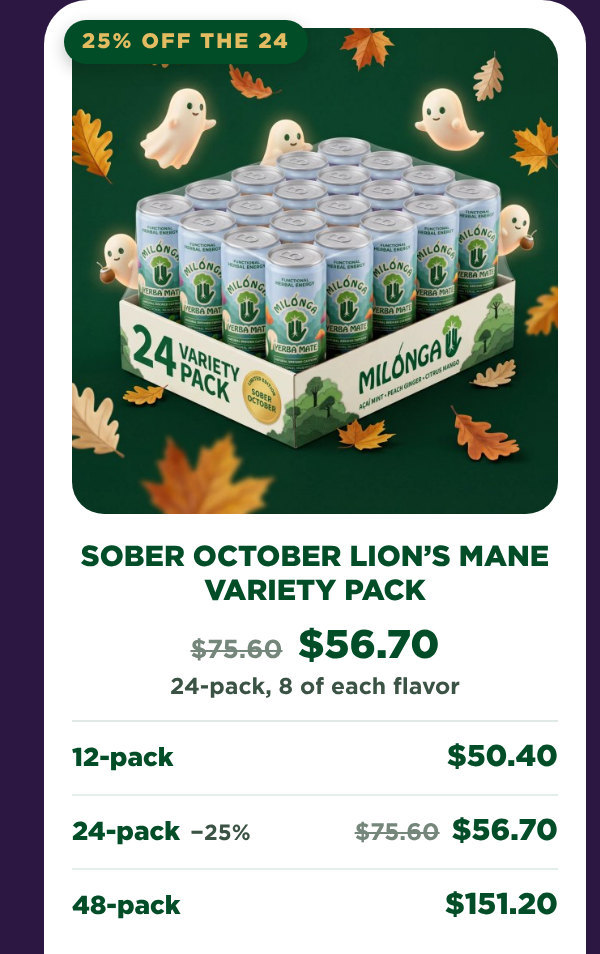
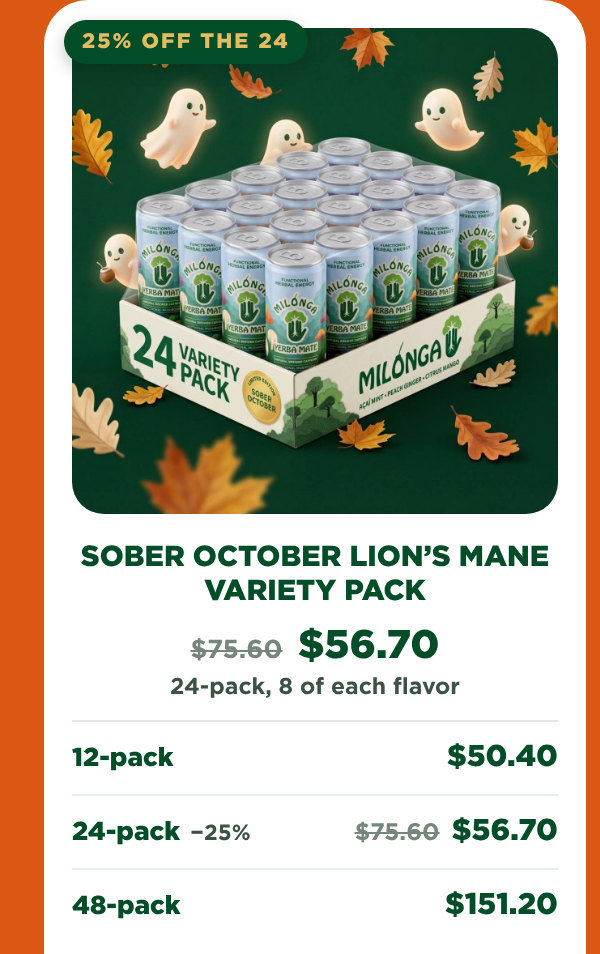
Halloween weekend: the variety-pack section on the peach-ginger orange
Claude-Session: https://claude.ai/code/session_01NhEtXPnfeCJfN73SqBkUZ5

Changed region(s): [[0.0, 0.0, 0.12, 1.0], [0.93, 0.0, 1.0, 1.0]]

diff --git a/email-ds/exports/klaviyo/halloween-weekend/halloween-weekend.html b/email-ds/exports/klaviyo/halloween-weekend/halloween-weekend.html
@@ -15,7 +15,7 @@
 <table role="presentation" class="wrap" width="600" cellpadding="0" cellspacing="0" border="0" style="width:600px;max-width:600px;">
 
 <!-- ── 1 · IT'S HALLOWEEN WEEKEND ──────────────────────────────── -->
-<tr><td style="padding:0;font-size:0;line-height:0;"><a href="https://milonga.life" target="_blank" style="text-decoration:none;"><img src="https://cdn.klaviyomail.com/company/TwvSnK/images/a97c4094-ab0c-4f8c-83b7-e7961fc0356a.jpeg" width="600" alt="Milonga. It’s Halloween weekend. Party Pack up to 30% off, ends Monday. The whole Milonga lineup on a purple Halloween night with a full moon, witches on broomsticks, friendly ghosts, autumn leaves and jack-o’-lanterns: Lion’s Mane and Social Mate cans around a pouch of Mate Latte." style="display:block;width:100%;max-width:600px;height:auto;border:0;outline:none;text-decoration:none;"></a></td></tr>
+<tr><td style="padding:0;font-size:0;line-height:0;"><a href="https://milonga.life" target="_blank" style="text-decoration:none;"><img src="https://raw.githubusercontent.com/bernatent11-pixel/Github/claude/email-design-system-a0nlwv/email-ds/exports/klaviyo/halloween-weekend/img/s1-hero.jpg" width="600" alt="Milonga. It’s Halloween weekend. Party Pack up to 30% off, ends Monday. The whole Milonga lineup on a purple Halloween night with a full moon, witches on broomsticks, friendly ghosts, autumn leaves and jack-o’-lanterns: Lion’s Mane and Social Mate cans around a pouch of Mate Latte." style="display:block;width:100%;max-width:600px;height:auto;border:0;outline:none;text-decoration:none;"></a></td></tr>
 <tr><td align="center" bgcolor="#3A1F55" style="background:#3A1F55;padding:0 20px 24px;"><table role="presentation" cellpadding="0" cellspacing="0" border="0" align="center" style="margin:0 auto;"><tr><td align="center" bgcolor="#E3BC62" style="border-radius:999px;background:#E3BC62;"><a href="https://milonga.life" target="_blank" style="display:inline-block;padding:17px 36px;white-space:nowrap;font-family:'Montserrat', 'Helvetica Neue', Arial, sans-serif;font-size:16px;font-weight:800;letter-spacing:2px;text-transform:uppercase;color:#004D27;text-decoration:none;border-radius:999px;mso-padding-alt:0;">Shop the Halloween sale</a></td></tr></table></td></tr>
 
 <!-- ── LIVE TIMER ──────────────────────────────────────────────────
@@ -28,19 +28,19 @@
 <div style="display:inline-block;background:#2C1743;border:1.5px solid #E3BC62;border-radius:16px;padding:14px 22px;font-family:'Montserrat', 'Helvetica Neue', Arial, sans-serif;font-size:18px;font-weight:900;color:#FFFFFF;letter-spacing:1px;">Ends Monday, November 2 at 11:59 PM ET</div></td></tr>
 
 <!-- ── 2 · THE HALLOWEEN PARTY PACK ────────────────────────────── -->
-<tr><td style="padding:0;font-size:0;line-height:0;"><a href="https://milonga.life/products/halloween-party-pack-bundle" target="_blank" style="text-decoration:none;"><img src="https://cdn.klaviyomail.com/company/TwvSnK/images/574f2e1c-b15b-49cf-b08f-ee76411eeebe.jpeg" width="600" alt="Limited edition, last weekend. The Halloween Party Pack. Costumes by day, the party by night. Our two mates in one box, plus the Milonga bucket hat, up to 30% off until Monday. The Party Pack box of Lion’s Mane and Social Mate cans with a Milonga bucket hat, jack-o’-lanterns, ghosts and witches under a full moon." style="display:block;width:100%;max-width:600px;height:auto;border:0;outline:none;text-decoration:none;"></a></td></tr>
-<tr><td style="padding:0;font-size:0;line-height:0;"><a href="https://milonga.life/products/halloween-party-pack-bundle" target="_blank" style="text-decoration:none;"><img src="https://cdn.klaviyomail.com/company/TwvSnK/images/49b190ef-bae3-4f45-9404-f4e5b8d2cbfe.jpeg" width="600" alt="By day, Lion’s Mane Mate: 100mg natural caffeine, 1,000mg Lion’s Mane, 220mg L-Theanine. By night, Social Mate: 10mg THC, 10mg CBD, 110mg natural caffeine, 220mg L-Theanine. Party Pack, 24-pack: $103.80, was $138.40, save 25%: 12 cans of Lion’s Mane, 12 cans of Social Mate, 1 Milonga bucket hat. Party Pack XL, 48-pack: $167.72, was $239.60, save 30%: 24 cans of Lion’s Mane, 24 cans of Social Mate, 2 Milonga bucket hats." style="display:block;width:100%;max-width:600px;height:auto;border:0;outline:none;text-decoration:none;"></a></td></tr>
+<tr><td style="padding:0;font-size:0;line-height:0;"><a href="https://milonga.life/products/halloween-party-pack-bundle" target="_blank" style="text-decoration:none;"><img src="https://raw.githubusercontent.com/bernatent11-pixel/Github/claude/email-design-system-a0nlwv/email-ds/exports/klaviyo/halloween-weekend/img/s2-head.jpg" width="600" alt="Limited edition, last weekend. The Halloween Party Pack. Costumes by day, the party by night. Our two mates in one box, plus the Milonga bucket hat, up to 30% off until Monday. The Party Pack box of Lion’s Mane and Social Mate cans with a Milonga bucket hat, jack-o’-lanterns, ghosts and witches under a full moon." style="display:block;width:100%;max-width:600px;height:auto;border:0;outline:none;text-decoration:none;"></a></td></tr>
+<tr><td style="padding:0;font-size:0;line-height:0;"><a href="https://milonga.life/products/halloween-party-pack-bundle" target="_blank" style="text-decoration:none;"><img src="https://raw.githubusercontent.com/bernatent11-pixel/Github/claude/email-design-system-a0nlwv/email-ds/exports/klaviyo/halloween-weekend/img/s2-body.jpg" width="600" alt="By day, Lion’s Mane Mate: 100mg natural caffeine, 1,000mg Lion’s Mane, 220mg L-Theanine. By night, Social Mate: 10mg THC, 10mg CBD, 110mg natural caffeine, 220mg L-Theanine. Party Pack, 24-pack: $103.80, was $138.40, save 25%: 12 cans of Lion’s Mane, 12 cans of Social Mate, 1 Milonga bucket hat. Party Pack XL, 48-pack: $167.72, was $239.60, save 30%: 24 cans of Lion’s Mane, 24 cans of Social Mate, 2 Milonga bucket hats." style="display:block;width:100%;max-width:600px;height:auto;border:0;outline:none;text-decoration:none;"></a></td></tr>
 <tr><td align="center" bgcolor="#3A1F55" style="background:#3A1F55;padding:0 24px 56px;"><table role="presentation" cellpadding="0" cellspacing="0" border="0" align="center" style="margin:0 auto;"><tr><td align="center" bgcolor="#E3BC62" style="border-radius:999px;background:#E3BC62;"><a href="https://milonga.life/products/halloween-party-pack-bundle" target="_blank" style="display:inline-block;padding:17px 40px;white-space:nowrap;font-family:'Montserrat', 'Helvetica Neue', Arial, sans-serif;font-size:16px;font-weight:800;letter-spacing:2px;text-transform:uppercase;color:#004D27;text-decoration:none;border-radius:999px;mso-padding-alt:0;">Get the Party Pack</a></td></tr></table><div style="font-family:'Montserrat', 'Helvetica Neue', Arial, sans-serif;font-size:13px;font-weight:700;color:#FFFFFF;padding-top:14px;">Social Mate is 21+. New to it? Start with half a can.</div></td></tr>
 
 <!-- ── 3 · THE SOBER OCTOBER VARIETY PACKS ─────────────────────── -->
-<tr><td style="padding:0;font-size:0;line-height:0;"><img src="https://cdn.klaviyomail.com/company/TwvSnK/images/7468bbce-2cef-44e7-bbe4-8303bfbd93c9.jpeg" width="600" alt="Sober October, last call. Every flavor, one box. The Sober October variety packs: 8 of each flavor in the 24-pack, 25% off until Monday." style="display:block;width:100%;max-width:600px;height:auto;border:0;outline:none;text-decoration:none;"></td></tr>
-<tr><td bgcolor="#2C1743" style="background:#2C1743;padding:0;font-size:0;line-height:0;"><table role="presentation" width="100%" cellpadding="0" cellspacing="0" border="0" style="table-layout:fixed;"><tr><td width="50%" valign="top" style="width:50%;padding:0;font-size:0;line-height:0;"><a href="https://milonga.life/products/lions-mane-variety-pack" target="_blank" style="text-decoration:none;"><img src="https://cdn.klaviyomail.com/company/TwvSnK/images/b9e37f1b-e5c7-4453-a082-52a5e3e79e18.jpeg" width="300" alt="Sober October Lion’s Mane Variety Pack, 25% off the 24-pack: 12-pack $50.40; 24-pack $56.70, was $75.60; 48-pack $151.20." style="display:block;width:100%;max-width:300px;height:auto;border:0;outline:none;text-decoration:none;"></a></td><td width="50%" valign="top" style="width:50%;padding:0;font-size:0;line-height:0;"><a href="https://milonga.life/products/variety" target="_blank" style="text-decoration:none;"><img src="https://cdn.klaviyomail.com/company/TwvSnK/images/5491cc99-c00f-4793-a0eb-0236c80fd5a6.jpeg" width="300" alt="Sober October Cannabis Variety Pack, Regular 10mg, 25% off the 24-pack: 12-pack $78.00; 24-pack $111.75, was $149.00; 48-pack $285.00." style="display:block;width:100%;max-width:300px;height:auto;border:0;outline:none;text-decoration:none;"></a></td></tr></table></td></tr>
-<tr><td bgcolor="#2C1743" style="background:#2C1743;padding:0;"><table role="presentation" width="100%" cellpadding="0" cellspacing="0" border="0" style="table-layout:fixed;"><tr><td width="3.667%" style="width:3.667%;padding:0;font-size:0;line-height:0;">&nbsp;</td><td width="45.167%" valign="top" align="center" bgcolor="#FFFFFF" style="width:45.167%;padding:0;background:#FFFFFF;border-radius:0 0 22px 22px;"><div style="padding:8px 6px 20px;"><table role="presentation" cellpadding="0" cellspacing="0" border="0" align="center" style="margin:0 auto;"><tr><td align="center" bgcolor="#004D27" style="border-radius:999px;background:#004D27;"><a href="https://milonga.life/products/lions-mane-variety-pack" target="_blank" class="card-btn" style="display:inline-block;padding:13px 18px;white-space:nowrap;font-family:'Montserrat', 'Helvetica Neue', Arial, sans-serif;font-size:12px;font-weight:800;letter-spacing:2px;text-transform:uppercase;color:#FFFFFF;text-decoration:none;border-radius:999px;mso-padding-alt:0;">Shop variety</a></td></tr></table></div></td><td width="2.333%" style="width:2.333%;padding:0;font-size:0;line-height:0;">&nbsp;</td><td width="45.167%" valign="top" align="center" bgcolor="#FFFFFF" style="width:45.167%;padding:0;background:#FFFFFF;border-radius:0 0 22px 22px;"><div style="padding:8px 6px 20px;"><table role="presentation" cellpadding="0" cellspacing="0" border="0" align="center" style="margin:0 auto;"><tr><td align="center" bgcolor="#004D27" style="border-radius:999px;background:#004D27;"><a href="https://milonga.life/products/variety" target="_blank" class="card-btn" style="display:inline-block;padding:13px 18px;white-space:nowrap;font-family:'Montserrat', 'Helvetica Neue', Arial, sans-serif;font-size:12px;font-weight:800;letter-spacing:2px;text-transform:uppercase;color:#FFFFFF;text-decoration:none;border-radius:999px;mso-padding-alt:0;">Shop variety</a></td></tr></table></div></td><td width="3.667%" style="width:3.667%;padding:0;font-size:0;line-height:0;">&nbsp;</td></tr></table></td></tr>
-<tr><td align="center" bgcolor="#2C1743" style="background:#2C1743;padding:30px 22px 52px;"><div style="font-family:'Montserrat', 'Helvetica Neue', Arial, sans-serif;font-size:13px;font-weight:800;letter-spacing:1.5px;text-transform:uppercase;color:#E3BC62;padding-bottom:18px;">Halloween weekend ends <span style="white-space:nowrap;">Monday, November 2 at 11:59 PM ET</span></div><table role="presentation" cellpadding="0" cellspacing="0" border="0" align="center" style="margin:0 auto;"><tr><td align="center" bgcolor="#E3BC62" style="border-radius:999px;background:#E3BC62;"><a href="https://milonga.life" target="_blank" style="display:inline-block;padding:16px 34px;white-space:nowrap;font-family:'Montserrat', 'Helvetica Neue', Arial, sans-serif;font-size:15px;font-weight:800;letter-spacing:2px;text-transform:uppercase;color:#004D27;text-decoration:none;border-radius:999px;mso-padding-alt:0;">Shop the sale</a></td></tr></table></td></tr>
+<tr><td style="padding:0;font-size:0;line-height:0;"><img src="https://raw.githubusercontent.com/bernatent11-pixel/Github/claude/email-design-system-a0nlwv/email-ds/exports/klaviyo/halloween-weekend/img/s3-head.jpg" width="600" alt="Sober October, last call. Every flavor, one box. The Sober October variety packs: 8 of each flavor in the 24-pack, 25% off until Monday." style="display:block;width:100%;max-width:600px;height:auto;border:0;outline:none;text-decoration:none;"></td></tr>
+<tr><td bgcolor="#DA5813" style="background:#DA5813;padding:0;font-size:0;line-height:0;"><table role="presentation" width="100%" cellpadding="0" cellspacing="0" border="0" style="table-layout:fixed;"><tr><td width="50%" valign="top" style="width:50%;padding:0;font-size:0;line-height:0;"><a href="https://milonga.life/products/lions-mane-variety-pack" target="_blank" style="text-decoration:none;"><img src="https://raw.githubusercontent.com/bernatent11-pixel/Github/claude/email-design-system-a0nlwv/email-ds/exports/klaviyo/halloween-weekend/img/s3-row-l.jpg" width="300" alt="Sober October Lion’s Mane Variety Pack, 25% off the 24-pack: 12-pack $50.40; 24-pack $56.70, was $75.60; 48-pack $151.20." style="display:block;width:100%;max-width:300px;height:auto;border:0;outline:none;text-decoration:none;"></a></td><td width="50%" valign="top" style="width:50%;padding:0;font-size:0;line-height:0;"><a href="https://milonga.life/products/variety" target="_blank" style="text-decoration:none;"><img src="https://raw.githubusercontent.com/bernatent11-pixel/Github/claude/email-design-system-a0nlwv/email-ds/exports/klaviyo/halloween-weekend/img/s3-row-r.jpg" width="300" alt="Sober October Cannabis Variety Pack, Regular 10mg, 25% off the 24-pack: 12-pack $78.00; 24-pack $111.75, was $149.00; 48-pack $285.00." style="display:block;width:100%;max-width:300px;height:auto;border:0;outline:none;text-decoration:none;"></a></td></tr></table></td></tr>
+<tr><td bgcolor="#DA5813" style="background:#DA5813;padding:0;"><table role="presentation" width="100%" cellpadding="0" cellspacing="0" border="0" style="table-layout:fixed;"><tr><td width="3.667%" style="width:3.667%;padding:0;font-size:0;line-height:0;">&nbsp;</td><td width="45.167%" valign="top" align="center" bgcolor="#FFFFFF" style="width:45.167%;padding:0;background:#FFFFFF;border-radius:0 0 22px 22px;"><div style="padding:8px 6px 20px;"><table role="presentation" cellpadding="0" cellspacing="0" border="0" align="center" style="margin:0 auto;"><tr><td align="center" bgcolor="#004D27" style="border-radius:999px;background:#004D27;"><a href="https://milonga.life/products/lions-mane-variety-pack" target="_blank" class="card-btn" style="display:inline-block;padding:13px 18px;white-space:nowrap;font-family:'Montserrat', 'Helvetica Neue', Arial, sans-serif;font-size:12px;font-weight:800;letter-spacing:2px;text-transform:uppercase;color:#FFFFFF;text-decoration:none;border-radius:999px;mso-padding-alt:0;">Shop variety</a></td></tr></table></div></td><td width="2.333%" style="width:2.333%;padding:0;font-size:0;line-height:0;">&nbsp;</td><td width="45.167%" valign="top" align="center" bgcolor="#FFFFFF" style="width:45.167%;padding:0;background:#FFFFFF;border-radius:0 0 22px 22px;"><div style="padding:8px 6px 20px;"><table role="presentation" cellpadding="0" cellspacing="0" border="0" align="center" style="margin:0 auto;"><tr><td align="center" bgcolor="#004D27" style="border-radius:999px;background:#004D27;"><a href="https://milonga.life/products/variety" target="_blank" class="card-btn" style="display:inline-block;padding:13px 18px;white-space:nowrap;font-family:'Montserrat', 'Helvetica Neue', Arial, sans-serif;font-size:12px;font-weight:800;letter-spacing:2px;text-transform:uppercase;color:#FFFFFF;text-decoration:none;border-radius:999px;mso-padding-alt:0;">Shop variety</a></td></tr></table></div></td><td width="3.667%" style="width:3.667%;padding:0;font-size:0;line-height:0;">&nbsp;</td></tr></table></td></tr>
+<tr><td align="center" bgcolor="#DA5813" style="background:#DA5813;padding:30px 22px 52px;"><div style="font-family:'Montserrat', 'Helvetica Neue', Arial, sans-serif;font-size:13px;font-weight:800;letter-spacing:1.5px;text-transform:uppercase;color:#FFFFFF;padding-bottom:18px;">Halloween weekend ends <span style="white-space:nowrap;">Monday, November 2 at 11:59 PM ET</span></div><table role="presentation" cellpadding="0" cellspacing="0" border="0" align="center" style="margin:0 auto;"><tr><td align="center" bgcolor="#004D27" style="border-radius:999px;background:#004D27;"><a href="https://milonga.life" target="_blank" style="display:inline-block;padding:16px 34px;white-space:nowrap;font-family:'Montserrat', 'Helvetica Neue', Arial, sans-serif;font-size:15px;font-weight:800;letter-spacing:2px;text-transform:uppercase;color:#FFFFFF;text-decoration:none;border-radius:999px;mso-padding-alt:0;">Shop the sale</a></td></tr></table></td></tr>
 
 <!-- ── FOOTER ─────────────────────────────────────────────────────── -->
 <tr><td align="center" bgcolor="#F0EFDF" style="background:#F0EFDF;padding:34px 30px 36px;font-family:'Montserrat', 'Helvetica Neue', Arial, sans-serif;color:#004D27;">
-<a href="https://milonga.life" target="_blank"><img src="https://cdn.klaviyomail.com/company/TwvSnK/images/0e781634-6907-42f6-b101-3c2c15371a99.png" width="61" height="64" alt="Milonga" style="display:block;margin:0 auto;height:64px;width:auto;border:0;"></a>
+<a href="https://milonga.life" target="_blank"><img src="https://raw.githubusercontent.com/bernatent11-pixel/Github/claude/email-design-system-a0nlwv/email-ds/exports/klaviyo/halloween-weekend/img/footer-logo.png" width="61" height="64" alt="Milonga" style="display:block;margin:0 auto;height:64px;width:auto;border:0;"></a>
 <div style="padding-top:18px;font-size:14px;font-weight:900;letter-spacing:2px;text-transform:uppercase;"><a href="https://milonga.life" target="_blank" style="color:#004D27;text-decoration:none;">milonga.life</a></div>
 <table role="presentation" cellpadding="0" cellspacing="0" border="0" align="center" style="margin:18px auto 0;"><tr><td class="unsub-pill" align="center" style="border:1.5px solid #004D27;border-radius:999px;padding:10px 24px;font-family:'Montserrat', 'Helvetica Neue', Arial, sans-serif;font-size:11px;font-weight:800;letter-spacing:2px;text-transform:uppercase;color:#004D27;">{% unsubscribe 'Unsubscribe' %}</td></tr></table>
 <div class="web-view-line" style="padding-top:12px;font-size:11px;font-weight:600;color:#3B5344;">{% web_view %}</div>

diff --git a/email-ds/emails/halloween-weekend.jsx b/email-ds/emails/halloween-weekend.jsx
@@ -26,10 +26,14 @@ const INK = '#12331F';
 const INK_SOFT = '#3B5344';
 const FONT = 'Gotham, Montserrat, sans-serif';
 const GOLD_FILL = 'linear-gradient(180deg, #EBCB7E 0%, #E3BC62 55%, #D8AE52 100%)';
-// The Party Pack picture's open sky, sampled; NIGHT is the deeper band
-// the variety packs sit on.
+// The Party Pack picture's open sky, sampled; NIGHT is the deeper purple of
+// the timer box.
 const PURPLE = '#3A1F55';
 const NIGHT = '#2C1743';
+// The last section is on the peach-ginger orange of the Halloween sale's
+// lineup (Bernat). Gold does not read on it, so its type is white.
+const ORANGE = '#DA5813';
+const ORANGE_SHADOW = '0 3px 14px rgba(90,25,0,0.45), 0 1px 3px rgba(90,25,0,0.35)';
 
 const SALE_END = 'Monday, November 2 at 11:59 PM ET';
 
@@ -190,7 +194,7 @@ function VarietyCard(p, i) {
   return h('div', { key: i, style: { flex: 1, boxSizing: 'border-box', background: '#FFFFFF',
     borderRadius: HTML_MODE ? '22px 22px 0 0' : 22, padding: HTML_MODE ? '14px 14px 6px' : '14px 14px 18px',
     textAlign: 'center', position: 'relative', display: 'flex', flexDirection: 'column',
-    boxShadow: HTML_MODE ? 'none' : CARD_SHADOW } },
+    boxShadow: HTML_MODE ? 'none' : '0 16px 30px rgba(90,25,0,0.30), 0 3px 8px rgba(90,25,0,0.2)' } },
     h('span', { style: { position: 'absolute', top: 10, left: 10, zIndex: 1, background: FOREST, color: GOLD, borderRadius: 999,
       padding: '5px 9px', fontFamily: FONT, fontWeight: 900, fontSize: 10.5, letterSpacing: '0.1em',
       textTransform: 'uppercase', boxShadow: '0 3px 8px rgba(0,26,13,0.25)' } }, '25% off the 24'),
@@ -247,18 +251,19 @@ function HalloweenWeekend({ shopHref = 'https://milonga.life', packHref = 'https
         'Social Mate is 21+. New to it? Start with half a can.')),
 
     // ── 3 · THE SOBER OCTOBER VARIETY PACKS ──
-    h('div', { style: { background: NIGHT, padding: HTML_MODE ? '0 22px 24px' : '56px 22px 50px', textAlign: 'center' } },
+    h('div', { style: { background: ORANGE, padding: HTML_MODE ? '0 22px 24px' : '56px 22px 50px', textAlign: 'center' } },
       h('div', { ...slice('s3-head'), style: { padding: HTML_MODE ? '56px 0 28px' : '0 0 28px' } },
-        eyebrow('Sober October, last call', GOLD),
-        h('div', { style: { textShadow: TITLE_SHADOW, fontFamily: FONT, fontWeight: 900, fontSize: 38, lineHeight: 1.04,
+        eyebrow('Sober October, last call', '#FFFFFF'),
+        h('div', { style: { textShadow: ORANGE_SHADOW, fontFamily: FONT, fontWeight: 900, fontSize: 38, lineHeight: 1.04,
           textTransform: 'uppercase', color: '#FFFFFF' } },
           h('div', null, 'Every flavor,'),
-          h('div', { style: { fontStyle: 'italic', fontWeight: 800, marginTop: 3, color: GOLD } }, 'one box.')),
+          h('div', { style: { fontStyle: 'italic', fontWeight: 800, marginTop: 3 } }, 'one box.')),
         para('The Sober October variety packs: 8 of each flavor in the 24-pack, 25% off until Monday. Find your favorite before the sale ends.', '#FFFFFF', 450)),
       h('div', { ...slice('s3-row'), style: { display: 'flex', gap: 14, alignItems: 'stretch' } }, VARIETY.map(VarietyCard)),
       HTML_MODE ? null : h('div', { style: { fontFamily: FONT, fontWeight: 800, fontSize: 13, letterSpacing: '0.08em', textTransform: 'uppercase',
-        color: GOLD, marginTop: 30 } }, 'Halloween weekend ends ', h('span', { style: { whiteSpace: 'nowrap' } }, SALE_END)),
-      HTML_MODE ? null : h('div', { style: { marginTop: 18 } }, btn('Shop the sale', shopHref))),
+        color: '#FFFFFF', marginTop: 30 } }, 'Halloween weekend ends ', h('span', { style: { whiteSpace: 'nowrap' } }, SALE_END)),
+      HTML_MODE ? null : h('div', { style: { marginTop: 18 } }, h('div', { style: { display: 'inline-block', borderRadius: 999, boxShadow: '0 10px 22px rgba(90,25,0,0.35)' } },
+        h(M.Button, { label: 'Shop the sale', href: shopHref, bg: 'beige', size: 'lg' })))),
 
     HTML_MODE ? null : h(M.Footer, { bg: 'beige', compliance: COMPLIANCE,
       social: [{ label: 'Instagram', href: '#' }, { label: 'Shop', href: '#' }] }),
